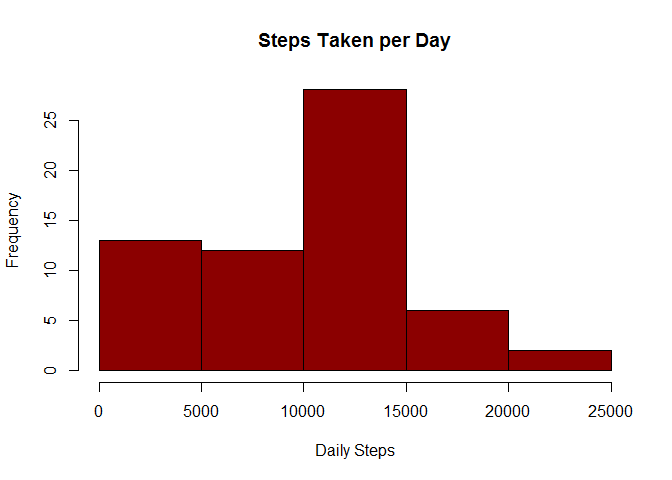
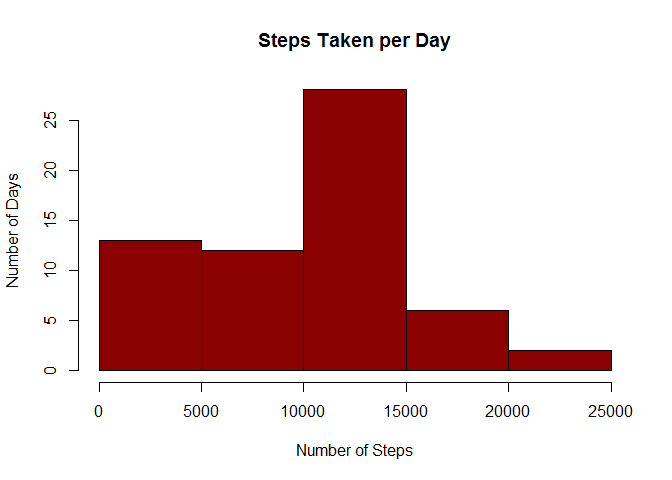
minor changes to labels, fix spelling

Changed region(s): [[0.4375, 0.9062, 0.625, 0.9688], [0.0, 0.3438, 0.0312, 0.5938]]

diff --git a/PA1_template.html b/PA1_template.html
@@ -66,10 +66,15 @@ img {
 
 <div id="loading-and-preprocessing-the-data" class="section level2">
 <h2>Loading and preprocessing the data</h2>
-<p>The following code segment will download the data into a temporary file and then use read.csv to read it from the temporary file into the activityData data frame:</p>
-<pre class="r"><code>library(dplyr)</code></pre>
+<p>Load in the required packages:</p>
+<pre class="r"><code>library(lubridate)
+library(dplyr)</code></pre>
 <pre><code>## 
 ## Attaching package: 'dplyr'
+## 
+## The following objects are masked from 'package:lubridate':
+## 
+##     intersect, setdiff, union
 ## 
 ## The following objects are masked from 'package:stats':
 ## 
@@ -78,6 +83,8 @@ img {
 ## The following objects are masked from 'package:base':
 ## 
 ##     intersect, setdiff, setequal, union</code></pre>
+<pre class="r"><code>library(ggplot2)</code></pre>
+<p>The following code segment will download the data into a temporary file and then use read.csv to read it from the temporary file into the activityData data frame:</p>
 <pre class="r"><code>temp &lt;- tempfile()
 download.file(&quot;https://d396qusza40orc.cloudfront.net/repdata%2Fdata%2Factivity.zip&quot;,temp)
 activityData &lt;- read.csv(unz(temp, &quot;activity.csv&quot;))
@@ -87,8 +94,8 @@ unlink(temp)</code></pre>
 <h2>What is mean total number of steps taken per day?</h2>
 <p>The following code segment will calculate the number of steps for each day and produce a histogram of the daily steps:</p>
 <pre class="r"><code>dailySteps &lt;- activityData %&gt;% group_by(date) %&gt;% summarize(dailySum = sum(steps, na.rm = T))
-hist(dailySteps$dailySum,  breaks = &quot;scott&quot;, col = &quot;darkred&quot;, main = &quot;Steps Taken per Day&quot;, xlab = &quot;Daily Steps&quot;)</code></pre>
[1 lines of base64/hex data omitted]
+hist(dailySteps$dailySum,  breaks = &quot;scott&quot;, col = &quot;darkred&quot;, main = &quot;Steps Taken per Day&quot;, xlab = &quot;Number of Steps&quot;, ylab = &quot;Number of Days&quot;)</code></pre>
[1 lines of base64/hex data omitted]
 <p>The following code will calculate and output the mean of the daily steps:</p>
 <pre class="r"><code>as.numeric(summarize(dailySteps, mean(dailySum, na.rm = T))) </code></pre>
 <pre><code>## [1] 9354.23</code></pre>
@@ -132,8 +139,8 @@ activityDataNotNaSteps &lt;- filter(activityData, !is.na(steps))</code></pre>
 newActivityData &lt;- imputedActivityDataSteps %&gt;% select(steps, date, interval) %&gt;% union(activityDataNotNaSteps) %&gt;% arrange(date, interval) </code></pre>
 <p>The following code segment will calculate the number of steps for each day using the new activity data set, and produce a histogram of the daily steps:</p>
 <pre class="r"><code>newDailySteps &lt;- newActivityData %&gt;% group_by(date) %&gt;% summarize(dailySum = sum(steps))
-hist(newDailySteps$dailySum,  breaks = &quot;scott&quot;, col = &quot;darkred&quot;, main = &quot;Steps Taken per Day&quot;, xlab = &quot;Daily Steps&quot;)</code></pre>
[1 lines of base64/hex data omitted]
+hist(newDailySteps$dailySum,  breaks = &quot;scott&quot;, col = &quot;darkred&quot;, main = &quot;Steps Taken per Day&quot;, xlab = &quot;Number of Steps&quot;, ylab = &quot;Number of Days&quot;)</code></pre>
[1 lines of base64/hex data omitted]
 <p>The mean of the new daily steps is calculated and output with the following code:</p>
 <pre class="r"><code>as.numeric(summarize(newDailySteps, mean(dailySum))) </code></pre>
 <pre><code>## [1] 10765.64</code></pre>
@@ -152,14 +159,12 @@ hist(newDailySteps$dailySum,  breaks = &quot;scott&quot;, col = &quot;darkred&qu
 </div>
 <div id="are-there-differences-in-activity-patterns-between-weekdays-and-weekends" class="section level2">
 <h2>Are there differences in activity patterns between weekdays and weekends?</h2>
-<p>The following code will add new column “dayType” to the new activity data set, and appropriately set the new column to either “Weekday” or “Weekend”. The new activity data set is then used to create the newIntervlaSteps data table with the average number of steps for each interval grouped by “dayType”.</p>
-<pre class="r"><code>library(lubridate)
-newActivityData[,&quot;dayType&quot;] &lt;- factor(&quot;Weekday&quot;, c(&quot;Weekday&quot;, &quot;Weekend&quot;)) 
+<p>The following code will add new column “dayType” to the new activity data set, and appropriately set the new column to either “Weekday” or “Weekend”. The new activity data set is then used to create the newIntervalSteps data table with the average number of steps for each interval grouped by “dayType”.</p>
+<pre class="r"><code>newActivityData[,&quot;dayType&quot;] &lt;- factor(&quot;Weekday&quot;, c(&quot;Weekday&quot;, &quot;Weekend&quot;)) 
 newActivityData[grep(&quot;Sat|Sun&quot;, wday(newActivityData$date, label = T)),&quot;dayType&quot;] &lt;- as.factor(&quot;Weekend&quot;)
 newIntervalSteps &lt;- newActivityData %&gt;% group_by(dayType, interval) %&gt;% summarize(intervalMean = mean(steps))</code></pre>
-<p>Next, the following code uses newIntervlaSteps to produce a time series plot of the five minute intervals averaged across weekday and weekend days. Interestingly, the two plots show some slight differences in the activity patterns between weekdays and weekends. As compared to the weekdays, the weekends seem to start off a bit slower for the first 10 hours (1000 on the x-axis), and then increase to a slightly higher level with a bit more volatility during the day before settling down again after 8:00 PM (2000 on the x-axis).</p>
-<pre class="r"><code>library(ggplot2)
-g &lt;- ggplot(newIntervalSteps, aes(interval, intervalMean)) + 
+<p>Next, the following code uses newIntervalSteps to produce a time series plot of the five minute intervals averaged across weekday and weekend days. Interestingly, the two plots show some slight differences in the activity patterns between weekdays and weekends. As compared to the weekdays, the weekends seem to start off a bit slower for the first 10 hours (1000 on the x-axis), and then increase to a slightly higher level with a bit more volatility during the day before settling down again after 8:00 PM (2000 on the x-axis).</p>
+<pre class="r"><code>g &lt;- ggplot(newIntervalSteps, aes(interval, intervalMean)) + 
          geom_line(stat = &quot;identity&quot;, colour = &quot;purple&quot;, size = 1) +
          facet_wrap(~ dayType, nrow = 2) +
          labs(title = expression(&quot;Average Number of Steps per Interval for Weekday vs Weekend Days&quot;)) +

diff --git a/PA1_template.md b/PA1_template.md
@@ -2,16 +2,20 @@
 
 
 ## Loading and preprocessing the data
-
-The following code segment will download the data into a temporary file and then use read.csv to read it from the temporary file into the activityData data frame: 
+Load in the required packages:
 
 ```r
+library(lubridate)
 library(dplyr)
 ```
 
 ```
 ## 
 ## Attaching package: 'dplyr'
+## 
+## The following objects are masked from 'package:lubridate':
+## 
+##     intersect, setdiff, union
 ## 
 ## The following objects are masked from 'package:stats':
 ## 
@@ -21,6 +25,13 @@ library(dplyr)
 ## 
 ##     intersect, setdiff, setequal, union
 ```
+
+```r
+library(ggplot2)
+```
+
+
+The following code segment will download the data into a temporary file and then use read.csv to read it from the temporary file into the activityData data frame: 
 
 ```r
 temp <- tempfile()
@@ -35,7 +46,7 @@ The following code segment will calculate the number of steps for each day and p
 
 ```r
 dailySteps <- activityData %>% group_by(date) %>% summarize(dailySum = sum(steps, na.rm = T))
-hist(dailySteps$dailySum,  breaks = "scott", col = "darkred", main = "Steps Taken per Day", xlab = "Daily Steps")
+hist(dailySteps$dailySum,  breaks = "scott", col = "darkred", main = "Steps Taken per Day", xlab = "Number of Steps", ylab = "Number of Days")
 ```
 
 ![](PA1_template_files/figure-html/makeHist-1.png) 
@@ -137,7 +148,7 @@ The following code segment will calculate the number of steps for each day using
 
 ```r
 newDailySteps <- newActivityData %>% group_by(date) %>% summarize(dailySum = sum(steps))
-hist(newDailySteps$dailySum,  breaks = "scott", col = "darkred", main = "Steps Taken per Day", xlab = "Daily Steps")
+hist(newDailySteps$dailySum,  breaks = "scott", col = "darkred", main = "Steps Taken per Day", xlab = "Number of Steps", ylab = "Number of Days")
 ```
 
 ![](PA1_template_files/figure-html/makeNewHist-1.png) 
@@ -174,19 +185,17 @@ The overall daily average and median are both slightly increased using the new a
 
 ## Are there differences in activity patterns between weekdays and weekends?
 
-The following code will add new column "dayType" to the new activity data set, and appropriately set the new column to either "Weekday" or "Weekend". The new activity data set is then used to create the newIntervlaSteps data table with the average number of steps for each interval grouped by "dayType".  
+The following code will add new column "dayType" to the new activity data set, and appropriately set the new column to either "Weekday" or "Weekend". The new activity data set is then used to create the newIntervalSteps data table with the average number of steps for each interval grouped by "dayType".  
 
 ```r
-library(lubridate)
 newActivityData[,"dayType"] <- factor("Weekday", c("Weekday", "Weekend")) 
 newActivityData[grep("Sat|Sun", wday(newActivityData$date, label = T)),"dayType"] <- as.factor("Weekend")
 newIntervalSteps <- newActivityData %>% group_by(dayType, interval) %>% summarize(intervalMean = mean(steps))
 ```
 
-Next, the following code uses newIntervlaSteps to produce a time series plot of the five minute intervals averaged across weekday and weekend days. Interestingly, the two plots show some slight differences in the activity patterns between weekdays and weekends. As compared to the weekdays, the weekends seem to start off a bit slower for the first 10 hours (1000 on the x-axis), and then increase to a slightly higher level with a bit more volatility during the day before settling down again after 8:00 PM (2000 on the x-axis).     
+Next, the following code uses newIntervalSteps to produce a time series plot of the five minute intervals averaged across weekday and weekend days. Interestingly, the two plots show some slight differences in the activity patterns between weekdays and weekends. As compared to the weekdays, the weekends seem to start off a bit slower for the first 10 hours (1000 on the x-axis), and then increase to a slightly higher level with a bit more volatility during the day before settling down again after 8:00 PM (2000 on the x-axis).     
 
 ```r
-library(ggplot2)
 g <- ggplot(newIntervalSteps, aes(interval, intervalMean)) + 
          geom_line(stat = "identity", colour = "purple", size = 1) +
          facet_wrap(~ dayType, nrow = 2) +
